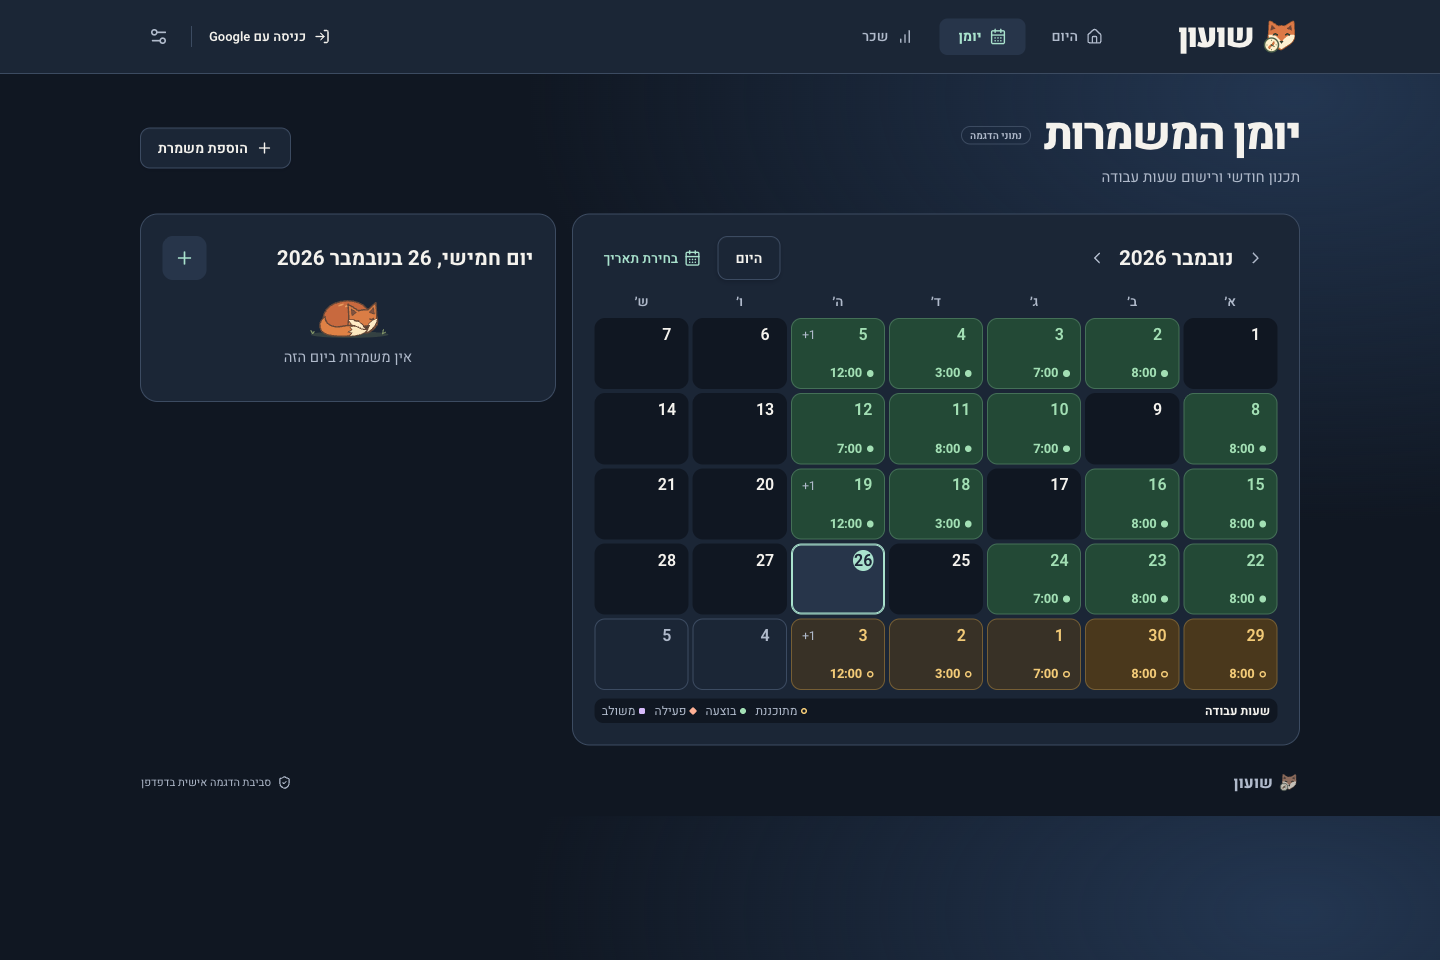
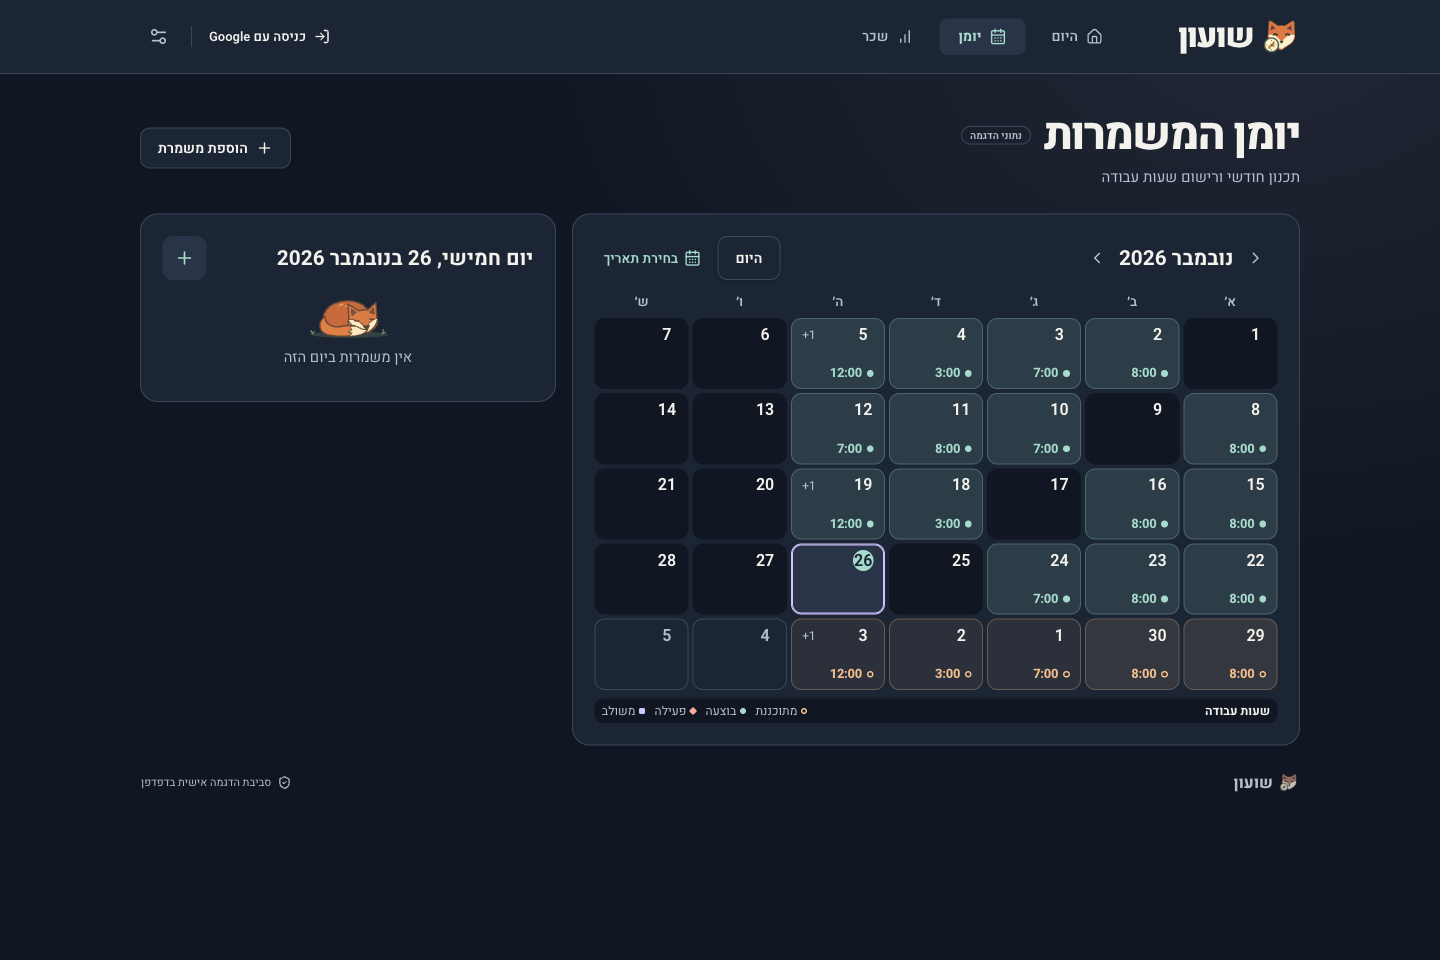
Unify dark-mode accents across the dashboard, calendar, and salary

Changed region(s): [[0.625, 0.8438, 1.0, 1.0], [0.8125, 0.0625, 1.0, 0.1875], [0.75, 0.625, 0.9062, 0.7188]]

diff --git a/src/style.css b/src/style.css
@@ -48,40 +48,41 @@
 :root[data-theme='dark'] {
   color-scheme: dark;
   --ink: #f4f2ed;
-  --muted: #b0bacb;
-  --line: #3c4b61;
-  --paper: #101722;
-  --card: #1b2636;
-  --green: #a9e2cd;
-  --accent: #f2b378;
-  --tint: #27354a;
-  --tag: #233e41;
-  --lavender: #dbc8ff;
-  --lavender-tint: #332e4a;
-  --amber-tint: #3a3028;
-  --hero: #1d2d48;
-  --hero-ink: #fff1d8;
-  --hero-line: #565578;
+  --muted: #b5bfce;
+  --line: #3b475b;
+  --paper: #111722;
+  --card: #1b2534;
+  --green: #a6dbcc;
+  --accent: #f4bf8d;
+  --tint: #293449;
+  --tag: color-mix(in srgb, var(--green) 13%, var(--card));
+  --lavender: #d2c5ff;
+  --lavender-tint: color-mix(in srgb, var(--lavender) 14%, var(--card));
+  --lavender-surface: color-mix(in srgb, var(--lavender) 21%, var(--card));
+  --amber-tint: color-mix(in srgb, var(--accent) 12%, var(--card));
+  --hero: color-mix(in srgb, var(--lavender) 7%, var(--card));
+  --hero-ink: var(--ink);
+  --hero-line: color-mix(in srgb, var(--lavender) 29%, var(--card));
   --inset: inset 0 1px 0 #f4f2ed05, 0 2px 5px #090e1c50;
   --focus: #ffc586;
-  --action: #f2b378;
-  --action-hover: #ffca97;
+  --action: var(--accent);
+  --action-hover: #ffd4aa;
   --action-ink: #2c2016;
   --on-green: #14271e;
-  --clock-idle: #d9b27e;
-  --clock-active: #91dbab;
-  --feature: #205447;
-  --feature-end: #17362f;
-  --feature-line: #4c7260;
-  --feature-contour: #b8e1bc29;
-  --chart-worked: #8dd5b9;
-  --chart-planned: #685437;
-  --chart-planned-stripe: #d5ae76;
-  --warning-bg: #453323;
+  --clock-idle: var(--accent);
+  --clock-active: var(--green);
+  --feature: color-mix(in srgb, var(--green) 22%, var(--card));
+  --feature-end: color-mix(in srgb, var(--green) 6%, var(--card));
+  --feature-line: color-mix(in srgb, var(--green) 29%, var(--card));
+  --feature-contour: color-mix(in srgb, var(--green) 13%, transparent);
+  --chart-worked: var(--green);
+  --chart-planned: color-mix(in srgb, var(--accent) 32%, var(--card));
+  --chart-planned-stripe: var(--accent);
+  --warning-bg: var(--amber-tint);
   --warning-ink: #ffd5a8;
-  --danger: #ffb6a5;
+  --danger: #f6a99d;
   --danger-strong: #ffd1c7;
-  --danger-bg: #4d2b27;
+  --danger-bg: color-mix(in srgb, var(--danger) 19%, var(--card));
   --dialog-shadow: 0 20px 90px #080b16cc;
   --scrim: #080d1ac2;
 }
@@ -95,7 +96,13 @@ body {
   -webkit-font-smoothing: antialiased;
 }
 :root[data-theme='dark'] body {
-  background-image: radial-gradient(ellipse at 90% 6rem, #233651 0, transparent 48rem);
+  min-height: 100dvh;
+  background-repeat: no-repeat;
+  background-image: radial-gradient(
+    ellipse at 88% 0,
+    color-mix(in srgb, var(--lavender) 9%, var(--paper)) 0,
+    transparent 46rem
+  );
 }
 button,
 a,
@@ -352,7 +359,9 @@ button:not(:disabled):active {
   color: var(--hero-ink);
 }
 :root[data-theme='dark'] .clock-card {
-  background-image: linear-gradient(112deg, #393653, transparent 74%);
+  background-image:
+    radial-gradient(ellipse at 19% 36%, color-mix(in srgb, var(--accent) 12%, transparent), transparent 35%),
+    linear-gradient(108deg, var(--lavender-surface), transparent 72%);
 }
 :root[data-theme='dark'] .clock-card .overline {
   color: var(--lavender);
@@ -457,9 +466,9 @@ button:not(:disabled):active {
   mask-image: linear-gradient(to right, #000 68%, transparent 100%);
 }
 :root[data-theme='dark'] .forest {
-  --forest-moon: #f5ce93;
+  --forest-moon: color-mix(in srgb, var(--accent) 75%, #fff0cf);
   --forest-moon-texture: #a77c67;
-  --forest-sky-detail: #d7bba6;
+  --forest-sky-detail: var(--lavender);
   --forest-hill-far: #586383;
   --forest-hill-near: #404c70;
   --forest-fir-far: #41476b;
@@ -472,7 +481,7 @@ button:not(:disabled):active {
   --forest-grass-texture: #475b72;
   --forest-shadow: #1a273d;
   --forest-stems: #889ab0;
-  --forest-flowers: #e6b572;
+  --forest-flowers: var(--accent);
 }
 @media (prefers-reduced-motion: no-preference) {
   .forest-fox-eyes {
@@ -654,6 +663,17 @@ button:not(:disabled):active {
 .income-estimates > div:last-child {
   background: #d5e4d41a;
 }
+:root[data-theme='dark'] .income-card .overline,
+:root[data-theme='dark'] .income-estimates > div:first-child dd {
+  color: var(--green);
+}
+:root[data-theme='dark'] .income-estimates > div:last-child {
+  background: var(--lavender-tint);
+  border-color: color-mix(in srgb, var(--lavender) 24%, var(--card));
+}
+:root[data-theme='dark'] .income-estimates > div:last-child dd {
+  color: var(--lavender);
+}
 .income-estimates dt {
   font-size: 12px;
   line-height: 1.3;
@@ -702,6 +722,9 @@ button:not(:disabled):active {
 :root[data-theme='dark'] .summary-metrics [data-metric='planned'] {
   --metric-color: var(--accent);
   background: var(--amber-tint);
+}
+:root[data-theme='dark'] .summary-metrics > div {
+  box-shadow: inset 0 0 0 1px color-mix(in srgb, var(--metric-color) 18%, transparent);
 }
 .summary-metrics dt {
   font-size: 12px;
@@ -872,6 +895,10 @@ button:not(:disabled):active {
   align-items: center;
   justify-content: center;
   color: var(--green);
+}
+:root[data-theme='dark'] .upcoming .date-tile {
+  background: var(--amber-tint);
+  color: var(--accent);
 }
 .date-tile strong {
   font-size: 17px;

diff --git a/src/components/monthly-calendar.css b/src/components/monthly-calendar.css
@@ -16,14 +16,14 @@
 }
 
 :root[data-theme='dark'] .shift-calendar {
-  --calendar-planned: #f2ca77;
-  --calendar-completed: #a2dfb4;
-  --calendar-active: #ffb196;
-  --calendar-mixed: #d6bafa;
-  --calendar-planned-fill: #4a381c;
-  --calendar-completed-fill: #234936;
-  --calendar-active-fill: #573127;
-  --calendar-mixed-fill: #453354;
+  --calendar-planned: var(--accent);
+  --calendar-completed: var(--green);
+  --calendar-active: var(--danger);
+  --calendar-mixed: var(--lavender);
+  --calendar-planned-fill: var(--amber-tint);
+  --calendar-completed-fill: var(--tag);
+  --calendar-active-fill: var(--danger-bg);
+  --calendar-mixed-fill: var(--lavender-tint);
 }
 
 .cal-month,
@@ -240,6 +240,10 @@
   color: var(--calendar-tone);
 }
 
+:root[data-theme='dark'] .cal-cell[aria-selected='true'] .cal-day {
+  border-color: var(--lavender);
+  box-shadow: inset 0 0 0 1px var(--lavender);
+}
 .cal-day[data-work-status]:hover {
   border-color: var(--calendar-tone);
 }
@@ -283,6 +287,9 @@
   color: var(--card);
 }
 
+:root[data-theme='dark'] .cal-day[data-work-status]:not([aria-current='date']) .cal-day-heading strong {
+  color: var(--ink);
+}
 .cal-more {
   font-size: clamp(0.65rem, 1.6vw, 0.77rem);
   color: var(--muted);

diff --git a/src/components/salary.css b/src/components/salary.css
@@ -55,14 +55,17 @@
   color: #fffefa;
 }
 :root[data-theme='dark'] .salary-figure-forecast {
-  --figure-secondary: #e0d3f4;
-  --figure-line: #dac5ff3d;
-  background: linear-gradient(135deg, #4a3969, #312844 76%);
-  border-color: #705c92;
-  color: #f9f1ff;
+  --figure-secondary: color-mix(in srgb, var(--lavender) 58%, var(--ink));
+  --figure-line: color-mix(in srgb, var(--lavender) 24%, transparent);
+  background: linear-gradient(135deg, var(--lavender-surface), var(--lavender-tint) 78%);
+  border-color: var(--hero-line);
+  color: var(--ink);
 }
 :root[data-theme='dark'] .salary-figure-forecast .salary-figure-net strong {
   color: var(--lavender);
+}
+:root[data-theme='dark'] .salary-figure:not(.salary-figure-forecast) .salary-figure-net strong {
+  color: var(--green);
 }
 .salary-figure h2 {
   display: flex;

diff --git a/src/components/settings.css b/src/components/settings.css
@@ -269,8 +269,8 @@
   width: 45%;
 }
 .theme-preview-dark {
-  background: linear-gradient(135deg, #393653, #1b2636);
-  color: #f2b378;
+  background: linear-gradient(135deg, #41475f, #1b2534);
+  color: #f4bf8d;
 }
 .theme-preview-sage {
   background: #ccdbcc;
@@ -278,7 +278,7 @@
 }
 .theme-preview-system {
   color: #769080;
-  background: linear-gradient(95deg, #f4f2eb 50%, #1b2636 50%);
+  background: linear-gradient(95deg, #f4f2eb 50%, #1b2534 50%);
 }
 .prefs-identity {
   font-size: 0.95rem;

diff --git a/README.md b/README.md
@@ -4,7 +4,7 @@
 
 ![מסך היום של שועון](docs/screenshots/today-desktop.png)
 
-במצב כהה שעון הנוכחות צבוע בכחול לילי, כרטיס ההכנסות בירוק אזמרגד ותחזית השכר בסגול. בוחרים **כהה** תחת **הגדרות → מראה**. [מסך היום](docs/screenshots/today-dark.png) · [יומן המשמרות](docs/screenshots/calendar-dark.png) · [דוח השכר בטלפון](docs/screenshots/salary-dark-mobile.png)
+מצב כהה משלב רקע כחול־אפור עם מנטה לסכומים ושעות שנצברו, ענבר למשמרות מתוכננות ולפעולות ראשיות, ולילך לשעון הנוכחות ולתחזית השכר. בוחרים **כהה** תחת **הגדרות → מראה**. [מסך היום](docs/screenshots/today-dark.png) · [יומן המשמרות](docs/screenshots/calendar-dark.png) · [דוח השכר בטלפון](docs/screenshots/salary-dark-mobile.png)
 
 השועל באיור היער מטה את הראש ומניע את הזנב מדי פעם. בתחילת משמרת הוא מקפץ פעם אחת. כל עוד שעון המשמרת רץ, עיניו פקוחות והוא ממצמץ מדי פעם. בהפסקה הוא עוצם אותן. בסיום הוא מתכרבל ליד התאריך בחלון הסיכום, ומהנהן כשסוגרים אותו. בבחירת יום ללא משמרות ביומן מופיע שועל מכורבל שנושם בשקט. שני האיורים מכבדים את הגדרת הפחתת התנועה במכשיר. [השועל בזמן משמרת](docs/screenshots/clock-active-fox.png) · [צילום סיכום משמרת בטלפון](docs/screenshots/shift-finished-mobile.png) · [צילום השועל ביום ריק](docs/screenshots/calendar-resting-fox.png)
 
